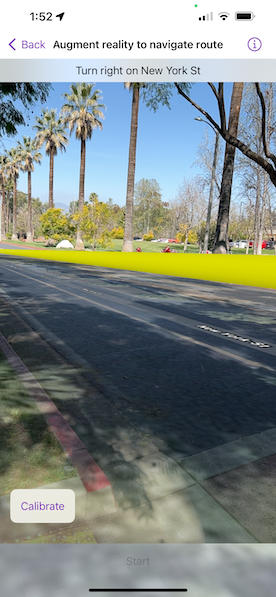
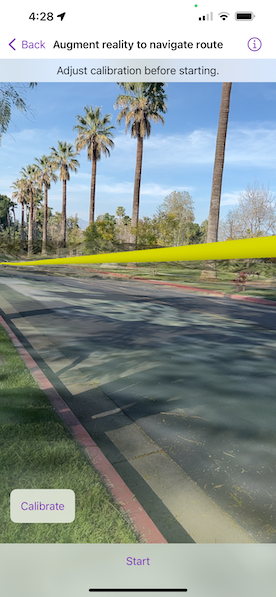
Use elevation source to create route polyline

diff --git a/Shared/Samples/Augment reality to navigate route/AugmentRealityToNavigateRouteView.swift b/Shared/Samples/Augment reality to navigate route/AugmentRealityToNavigateRouteView.swift
@@ -27,15 +27,7 @@ struct AugmentRealityToNavigateRouteView: View {
     /// The location datasource that is used to access the device location.
     @State private var locationDataSource = SystemLocationDataSource()
     /// A scene with an imagery basemap.
-    @State private var scene: ArcGIS.Scene = {
-        let surface = Surface()
-        surface.backgroundGrid.isVisible = false
-        surface.navigationConstraint = .unconstrained
-        let scene = Scene(basemapStyle: .arcGISImagery)
-        scene.baseSurface = surface
-        scene.baseSurface.opacity = 0.5
-        return scene
-    }()
+    @State private var scene = Scene(basemapStyle: .arcGISImagery)
     /// The elevation surface set to the base surface of the scene.
     @State private var elevationSurface: Surface = {
         let elevationSurface = Surface()
@@ -45,7 +37,7 @@ struct AugmentRealityToNavigateRouteView: View {
         return elevationSurface
     }()
     /// The elevation source with elevation service URL.
-    @State private var elevationSource: ElevationSource?
+    @State private var elevationSource = ArcGISTiledElevationSource(url: URL(string: "https://elevation3d.arcgis.com/arcgis/rest/services/WorldElevation3D/Terrain3D/ImageServer")!)
     /// The graphics overlay containing a graphic.
     @State private var graphicsOverlay = GraphicsOverlay()
     /// The status text displayed to the user.
@@ -54,13 +46,10 @@ struct AugmentRealityToNavigateRouteView: View {
     @State private var isNavigating = false
     /// The result of the route selected in the route planner view.
     @State private var routeResult: RouteResult?
-    /// The current location elevation in meters.
-    @State private var elevation: Double?
     
     init() {
-        let elevationSource = ArcGISTiledElevationSource(url: URL(string: "https://elevation3d.arcgis.com/arcgis/rest/services/WorldElevation3D/Terrain3D/ImageServer")!)
         elevationSurface.addElevationSource(elevationSource)
-        Task { try await elevationSource.load() }
+        scene.baseSurface = elevationSurface
     }
     
     var body: some View {
@@ -72,6 +61,9 @@ struct AugmentRealityToNavigateRouteView: View {
                         for: routeResult,
                         using: routeGraphic
                     )
+                }
+                .task {
+                    Task { try await elevationSource.load() }
                 }
         } else {
             WorldScaleSceneView { _ in
@@ -85,7 +77,6 @@ struct AugmentRealityToNavigateRouteView: View {
                     
                     for await location in locationDataSource.locations {
                         try await routeDataModel.routeTracker?.track(location)
-                        self.elevation = location.position.z
                     }
                 }
             }
@@ -134,9 +125,10 @@ struct AugmentRealityToNavigateRouteView: View {
         graphicsOverlay.renderer = polylineRenderer
         
         if let originalPolyline = routeResult.routes.first?.geometry {
-            let polyline = addElevationToPolyline(polyline: originalPolyline)
-            routeGraphic.geometry = polyline
-            graphicsOverlay.addGraphic(routeGraphic)
+            addElevationToPolyline(polyline: originalPolyline) { polyline in
+                routeGraphic.geometry = polyline
+                graphicsOverlay.addGraphic(routeGraphic)
+            }
         }
         
         return graphicsOverlay
@@ -148,21 +140,27 @@ struct AugmentRealityToNavigateRouteView: View {
     /// - Parameters:
     ///   - polyline: The polyline geometry of the route.
     ///   - z: A `Double` value representing z elevation.
-    private func addElevationToPolyline(polyline: Polyline, elevation z: Double = 3) -> Polyline {
+    ///   - completion: A completion closure to execute after the polyline is generated with success or not.
+    private func addElevationToPolyline(
+        polyline: Polyline,
+        elevation z: Double = 3,
+        completion: @escaping (Polyline) -> Void
+    ) {
         if let densifiedPolyline = GeometryEngine.densify(polyline, maxSegmentLength: 0.3) as? Polyline {
-            let polylinebuilder = PolylineBuilder(spatialReference: polyline.spatialReference)
+            let polylinebuilder = PolylineBuilder(spatialReference: densifiedPolyline.spatialReference)
             
             let allPoints = densifiedPolyline.parts.flatMap { $0.points }
             
-            allPoints.forEach { point in
-                let newPoint = GeometryEngine.makeGeometry(from: point, z: elevation ?? 0 + z)
-                
-                // Put the new point 3 meters above the ground elevation.
-                polylinebuilder.add(newPoint)
+            Task {
+                for point in allPoints {
+                    async let elevation = try await elevationSurface.elevation(at: point)
+                    let newPoint = await GeometryEngine.makeGeometry(from: point, z: try elevation + z)
+                    polylinebuilder.add(newPoint)
+                }
+                completion(polylinebuilder.toGeometry())
             }
-            return polylinebuilder.toGeometry()
         } else {
-            return polyline
+            completion(polyline)
         }
     }
     
